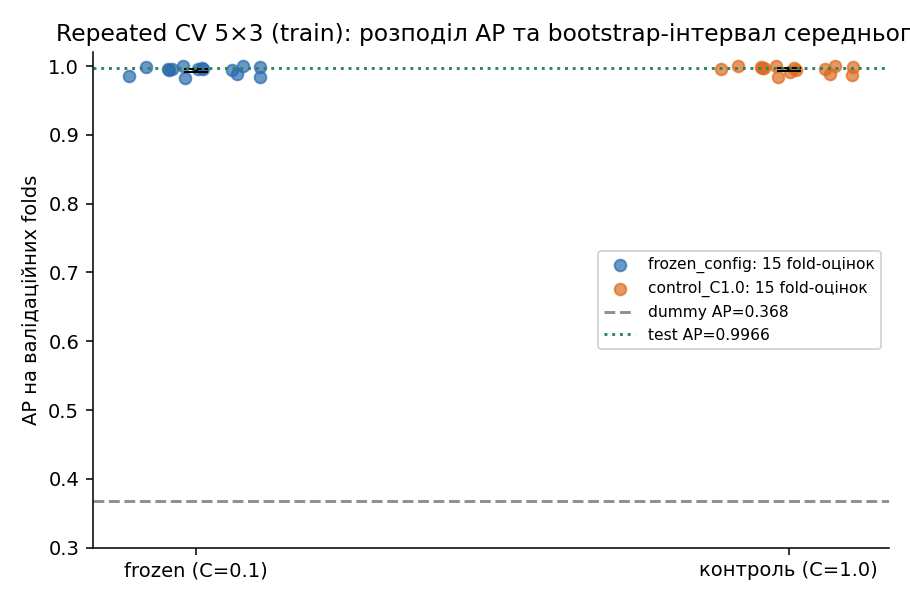
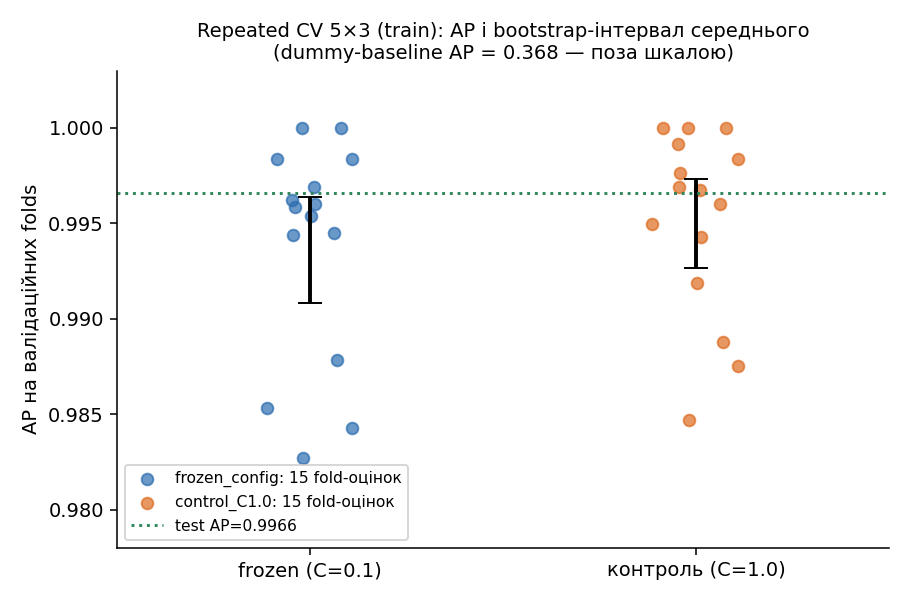
practical07: clip metric intervals to [0, 1] and fix overstated wording
AP bootstrap upper bound was 1.0000000000000002. The C=0.1 vs C=1.0 finding
claimed "within noise" although the paired interval excludes 0. Redraw
figures with clipped titles, covering legends and a misleading axis scale.

diff --git a/practical07/pr07_audit.py b/practical07/pr07_audit.py
@@ -114,7 +114,7 @@ def stage_frozen():
     df = pd.DataFrame(rows)
     df.to_csv(RES / "frozen_object.csv", index=False)
     status = git("status", "--porcelain", "--", CFG["object"]["dir"])
-    info = {"frozen_commit": commit, "commit_exists": exists, "repo_head_at_audit": head,
+    info = {"frozen_commit": commit, "commit_exists": exists, "repo_head_at_run_informational": head,
             "lab06_working_tree_clean": (status == "") if status is not None else None,
             "all_blobs_match_frozen_commit": bool(df.worktree_vs_commit.isin(["identical", "line_endings_only"]).all()),
             "files_identical_bytes": int((df.worktree_vs_commit == "identical").sum()),
@@ -743,7 +743,7 @@ def build_findings(F):
         "Test ЛР6 не є «свіжим» щодо попередніх робіт курсу: більшість test-записів були у train ЛР5; набір публічний і багаторазово використаний.",
         f"{F['lab06_test_in_lab05_train']} із {F['test_n']} test-ID ЛР6 були у train ЛР5 (перераховано за results/split_ids.csv ЛР5, лише ID; збігається з data_provenance.json). Модель ЛР5 була без вчителя і не використовувала мітки, тож пряме зараження не доведено, але незалежність test обмежена.",
         "medium", "Для заяв про узагальнення потрібен зовнішній набір; у висновках позначати test як внутрішню перевірку.", status="accepted_risk")
-    add(F["test_recall_ci_width"] > 0.1,
+    add(F["test_recall_ci_width"] > CFG["finding_thresholds"]["recall_ci_width"],
         "Test малий (42 malignant): метрики за порогом 0.5 мають широкий інтервал, а 2 пропущені malignant становлять 4.8% recall.",
         f"Bootstrap 95% для recall: [{F['recall_ci'][0]:.3f}, {F['recall_ci'][1]:.3f}]; AP: [{F['ap_ci'][0]:.4f}, {F['ap_ci'][1]:.4f}]. FN: ID {F['test_error_ids']} з p={F['test_error_p']}. Пороги 0.5 не підбирався під ціну FN.",
         "medium", "Не трактувати test як доказ рівня recall; для застосувань із дорогим FN окремо обирати поріг на CV, не на test.", status="accepted_risk")
@@ -759,10 +759,13 @@ def build_findings(F):
         "Заява «test використано один раз» неточна: на test також оцінено другого фіналіста (AUDIT_ONLY) після freeze.",
         "results/test_audit_other_finalist.json (AUDIT_ONLY=true): Manual C=1.0, AP=0.9943. Вибір не змінювався, README розкриває це в §10.",
         "low", "Формулювати: «для вибраної моделі один раз; другий фіналіст — лише аудит».", status="documented")
+    sig = F["paired_diff_hi"] < 0 or F["paired_diff_lo"] > 0
     add(F["freq_C01"] < 1.0,
-        f"Вибір C=0.1 є практично довільним: на 20 seeds внутрішньої 3-fold CV (train) C=0.1 обирається у {F['freq_C01']*100:.0f}% випадків, C=1.0 — у {F['freq_C1']*100:.0f}%.",
-        f"selection_control.csv: частоти найкращого C = {F['freq_best_C']}; різниця AP між C=0.1 і C=1.0 на повторній CV: {F['paired_diff_mean']:+.4f} (інтервал [{F['paired_diff_lo']:+.4f}, {F['paired_diff_hi']:+.4f}]) — в межах ε. Це підтверджує чесне формулювання lab06 про довільність tie-break.",
-        "low", "Не інтерпретувати C=0.1 як оптимальний; якість еквівалентна C=1.0.", status="documented")
+        f"Вибір C=0.1 практично довільний: на 20 seeds внутрішньої 3-fold CV (train) C=0.1 обирається у {F['freq_C01']*100:.0f}% випадків, C=1.0 — у {F['freq_C1']*100:.0f}%.",
+        f"selection_control.csv: частоти найкращого C = {F['freq_best_C']}. Повторна CV 5×3: ΔAP(C=0.1 − C=1.0) = {F['paired_diff_mean']:+.4f}, інтервал [{F['paired_diff_lo']:+.4f}, {F['paired_diff_hi']:+.4f}] "
+        + ("не містить 0, тобто C=1.0 систематично, але мізерно кращий (|Δ| ≪ ε=0.01; 15 залежних фолдів, інтервал описовий)." if sig else "містить 0 (в межах ε).")
+        + " Це узгоджується з чесним формулюванням lab06 про довільність tie-break.",
+        "low", "Не інтерпретувати C=0.1 як оптимальний; якість практично еквівалентна C=1.0.", status="documented")
     for i, f in enumerate(out, 1):
         f["id"] = f"F-{i:02d}"
     return out
@@ -803,11 +806,11 @@ def make_figures(D, corr, ind, folds, summ, objs, runs, imp_summ, errs, neg, cla
         ax.scatter(np.full_like(v, k) + np.random.default_rng(1).uniform(-0.12, 0.12, len(v)), v, color=col, alpha=0.7, label=f"{name}: 15 fold-оцінок")
         s = summ[(summ.model == name) & (summ.metric == "ap")].iloc[0]
         ax.errorbar([k], [s["mean"]], yerr=[[s["mean"] - s.ci_low], [s.ci_high - s["mean"]]], color="black", capsize=6, lw=2)
-    ax.axhline(F["dummy_test_ap"], color=GRAY, ls="--", label=f"dummy AP={F['dummy_test_ap']:.3f}")
     ax.axhline(F["frozen_test_ap"], color=GREEN, ls=":", label=f"test AP={F['frozen_test_ap']:.4f}")
     ax.set_xticks([0, 1]); ax.set_xticklabels(["frozen (C=0.1)", "контроль (C=1.0)"]); ax.set_ylabel("AP на валідаційних folds")
-    ax.set_title("Repeated CV 5×3 (train): розподіл AP та bootstrap-інтервал середнього"); ax.legend(fontsize=8, loc="center right")
-    ax.set_ylim(0.3, 1.02); fig_save(fig, "03_repeated_cv.png")
+    ax.set_title(f"Repeated CV 5×3 (train): AP і bootstrap-інтервал середнього\n(dummy-baseline AP = {F['dummy_test_ap']:.3f} — поза шкалою)", fontsize=10)
+    ax.set_ylim(0.978, 1.003); ax.set_xlim(-0.5, 1.5)
+    ax.legend(fontsize=8, loc="lower left"); fig_save(fig, "03_repeated_cv.png")
     # 4 confusion
     fig, axs = plt.subplots(1, 2, figsize=(7.5, 3.6))
     for ax, name, title in zip(axs, ("dummy_prior", "frozen_joblib"), ("Dummy (prior)", "Заморожена модель")):
@@ -822,11 +825,11 @@ def make_figures(D, corr, ind, folds, summ, objs, runs, imp_summ, errs, neg, cla
     fig, axs = plt.subplots(1, 2, figsize=(9, 4))
     axs[0].plot(runs.run, runs.ap, "o-", color=BLUE, label="AP на test"); axs[0].plot(runs.run, runs.recall, "s--", color=ORANGE, label="recall на test")
     axs[0].axhline(F["frozen_test_ap"], color=GREEN, ls=":", label="еталон: заморожена модель (AP)")
-    axs[0].set_xlabel("номер bootstrap-перенавчання"); axs[0].set_ylabel("метрика"); axs[0].set_title("Метрики між перенавчаннями"); axs[0].legend(fontsize=8)
+    axs[0].set_xlabel("номер bootstrap-перенавчання"); axs[0].set_ylabel("метрика"); axs[0].set_title("Метрики між перенавчаннями"); axs[0].legend(fontsize=8, loc="lower center", bbox_to_anchor=(0.5, -0.25), ncol=1)
     axs[1].bar(runs.run, runs.disagreement_D, color=BLUE, label="D (частка розбіжних міток)")
     ax2 = axs[1].twinx(); ax2.plot(runs.run, runs.mean_abs_dp, "o-", color=RED, label="середній |Δp|"); ax2.spines["right"].set_visible(True)
     axs[1].set_xlabel("номер bootstrap-перенавчання"); axs[1].set_ylabel("D"); ax2.set_ylabel("середній |Δp|"); axs[1].set_title("Розбіжність прогнозів з еталоном")
-    h1, l1 = axs[1].get_legend_handles_labels(); h2, l2 = ax2.get_legend_handles_labels(); axs[1].legend(h1 + h2, l1 + l2, fontsize=8, loc="upper right")
+    h1, l1 = axs[1].get_legend_handles_labels(); h2, l2 = ax2.get_legend_handles_labels(); axs[1].legend(h1 + h2, l1 + l2, fontsize=8, loc="lower center", bbox_to_anchor=(0.5, -0.25))
     fig_save(fig, "05_stability.png")
     # 6 importance
     top = imp_summ.head(10).iloc[::-1]
@@ -857,21 +860,21 @@ def make_figures(D, corr, ind, folds, summ, objs, runs, imp_summ, errs, neg, cla
     ax.set_xlim(0, 2); ax.set_ylim(-len(neg), 0); ax.set_xticks([0.5, 1.5]); ax.set_xticklabels(["оригінал (lab06)", "виправлена версія"]); ax.xaxis.tick_top()
     ax.set_yticks([-i - 0.5 for i in range(len(neg))]); ax.set_yticklabels(neg.scenario, fontsize=8)
     for s in ax.spines.values(): s.set_visible(False)
-    ax.set_title("Негативні сценарії: ✗ — поведінка відрізняється від очікуваної", pad=28); fig_save(fig, "08_negative_tests.png")
+    ax.set_title("Негативні сценарії (✗ — не відповідає очікуванню)", pad=28); fig_save(fig, "08_negative_tests.png")
     # 9 claims & findings
     fig, axs = plt.subplots(1, 2, figsize=(9, 3.8))
     vc = claims_df.verdict.value_counts().reindex(A.CLAIM_VERDICTS, fill_value=0)
     axs[0].bar(range(4), vc.values, color=[GREEN, ORANGE, RED, GRAY]); axs[0].set_xticks(range(4)); axs[0].set_xticklabels(["підтв.", "частково", "спрост.", "не перев."], fontsize=8)
-    axs[0].set_ylabel("кількість тверджень"); axs[0].set_title("Вердикти реєстру тверджень")
+    axs[0].set_ylabel("кількість тверджень"); axs[0].set_title("Вердикти реєстру тверджень"); axs[0].yaxis.get_major_locator().set_params(integer=True)
     sv = find_df.severity.value_counts().reindex(A.SEVERITIES, fill_value=0)
     axs[1].bar(range(4), sv.values, color=["#742a2a", RED, ORANGE, GRAY]); axs[1].set_xticks(range(4)); axs[1].set_xticklabels(A.SEVERITIES)
-    axs[1].set_ylabel("кількість знахідок"); axs[1].set_title("Знахідки за критичністю")
+    axs[1].set_ylabel("кількість знахідок"); axs[1].set_title("Знахідки за критичністю"); axs[1].yaxis.get_major_locator().set_params(integer=True)
     fig_save(fig, "09_claims_findings.png")
     # 10 selection control
     fig, ax = plt.subplots(figsize=(7, 4))
     for C, col in zip(CFG["selection_control"]["C_grid"], (GRAY, BLUE, ORANGE, GREEN)):
         ax.plot(sel.seed, sel[f"ap_C{C}"], "o-", color=col, ms=3, label=f"C={C}")
-    ax.set_xlabel("seed внутрішньої 3-fold CV"); ax.set_ylabel("середній AP на folds (train)"); ax.set_title("Контроль вибору C: різниці менші за шум між seeds"); ax.legend(fontsize=8, ncol=2)
+    ax.set_xlabel("seed внутрішньої 3-fold CV"); ax.set_ylabel("середній AP на folds (train)"); ax.set_title("Контроль вибору C (3-fold CV на train, 20 seeds)"); ax.legend(fontsize=8, ncol=2)
     fig_save(fig, "10_selection_control.png")
 
 

diff --git a/practical07/tests/test_artifacts.py b/practical07/tests/test_artifacts.py
@@ -179,6 +179,23 @@ class TestErrorsStabilityNegative(unittest.TestCase):
         self.assertEqual(A.sha256_file(ROOT / "fixed" / "pipeline.joblib"), A.sha256_file(H / "pipeline.joblib"))
         self.assertEqual((ROOT / "fixed" / "pipeline.sha256").read_text().split()[0], A.sha256_file(H / "pipeline.joblib"))
 
+    def test_unit_interval_metrics_in_ci_file(self):
+        ci = json.loads((R / "test_bootstrap_ci.json").read_text(encoding="utf-8"))
+        for k in ("ap", "roc_auc", "recall"):
+            self.assertLessEqual(ci[k][1], 1.0, k)
+            self.assertLessEqual(ci[k][0], ci[k][1])
+
+    def test_selection_finding_wording_matches_interval(self):
+        """Regression: the finding must not call a difference 'noise' when its bootstrap interval excludes zero."""
+        s = json.loads((R / "summary.json").read_text(encoding="utf-8"))["repeated_cv_paired"]
+        f = csv("findings.csv")
+        row = f[f.problem.str.contains("практично довільний")].iloc[0]
+        excludes_zero = s["paired_diff_ci_high"] < 0 or s["paired_diff_ci_low"] > 0
+        if excludes_zero:
+            self.assertIn("систематично", row.evidence)
+            self.assertNotIn("в межах шуму", row.evidence)
+            self.assertNotIn("підтверджує довільність", row.evidence)
+
     def test_ai_checks_at_least_three(self):
         self.assertGreaterEqual(len(csv("ai_recommendation_checks.csv")), 3)
 

diff --git a/practical07/audit_core.py b/practical07/audit_core.py
@@ -22,6 +22,7 @@ from serving import validate_record, record_to_vector, ACCEPTED, REJECTED, WARNI
 SEVERITIES = ("critical", "high", "medium", "low")
 CLAIM_VERDICTS = ("підтверджено", "підтверджено частково", "спростовано", "неможливо перевірити")
 AUDIT_VERDICTS = ("прийнято", "прийнято з обмеженнями", "потребує доопрацювання", "відхилено")
+BOUNDED_METRICS = ("ap", "roc_auc", "f1", "precision", "recall", "balanced_accuracy")
 METRIC_KEYS = ("ap", "roc_auc", "f1", "precision", "recall", "balanced_accuracy", "brier", "log_loss")
 
 
@@ -149,7 +150,10 @@ def bootstrap_metric_ci(y, p, metric, n_boot=2000, alpha=0.05, seed=42, threshol
         if y[i].min() == y[i].max():
             continue
         vals.append(metrics_from_proba(y[i], p[i], threshold)[metric])
-    return float(np.quantile(vals, alpha / 2)), float(np.quantile(vals, 1 - alpha / 2))
+    lo, hi = float(np.quantile(vals, alpha / 2)), float(np.quantile(vals, 1 - alpha / 2))
+    if metric in BOUNDED_METRICS:  # float summation can give 1.0000000000000002
+        lo, hi = float(np.clip(lo, 0.0, 1.0)), float(np.clip(hi, 0.0, 1.0))
+    return lo, hi
 
 
 def prediction_disagreement(labels_a, labels_b) -> float:

diff --git a/practical07/tests/test_audit_core.py b/practical07/tests/test_audit_core.py
@@ -108,6 +108,22 @@ class TestMetrics(unittest.TestCase):
         self.assertEqual((lo, hi), A.bootstrap_ci(v, 2000, 0.05, 1))
         self.assertEqual(A.bootstrap_ci([0.5, 0.5, 0.5], 100, 0.05, 1), (0.5, 0.5))
 
+    def test_bootstrap_metric_ci_is_clipped_to_unit_interval(self):
+        """Regression: on the real lab06 test split the AP interval had an upper bound of 1.0000000000000002."""
+        import joblib
+        import pandas as pd
+        from sklearn.datasets import load_breast_cancer
+        d = load_breast_cancer()
+        y = A.audit_target(d.target)
+        split = pd.read_csv(ROOT.parent / "lab06" / "handoff" / "split_ids.csv")
+        te = split[split.part == "test"].id.to_numpy()
+        model = joblib.load(ROOT.parent / "lab06" / "handoff" / "pipeline.joblib")
+        p = model.predict_proba(d.data[te])[:, 1]
+        for metric in ("ap", "roc_auc", "recall"):
+            lo, hi = A.bootstrap_metric_ci(y[te], p, metric, n_boot=400, seed=42)
+            self.assertLessEqual(hi, 1.0, metric)
+            self.assertGreaterEqual(lo, 0.0, metric)
+
     def test_disagreement_and_dp(self):
         self.assertEqual(A.prediction_disagreement([0, 1, 1, 0], [0, 1, 0, 1]), 0.5)
         self.assertAlmostEqual(A.mean_abs_proba_diff([0.1, 0.5], [0.3, 0.4]), 0.15)
